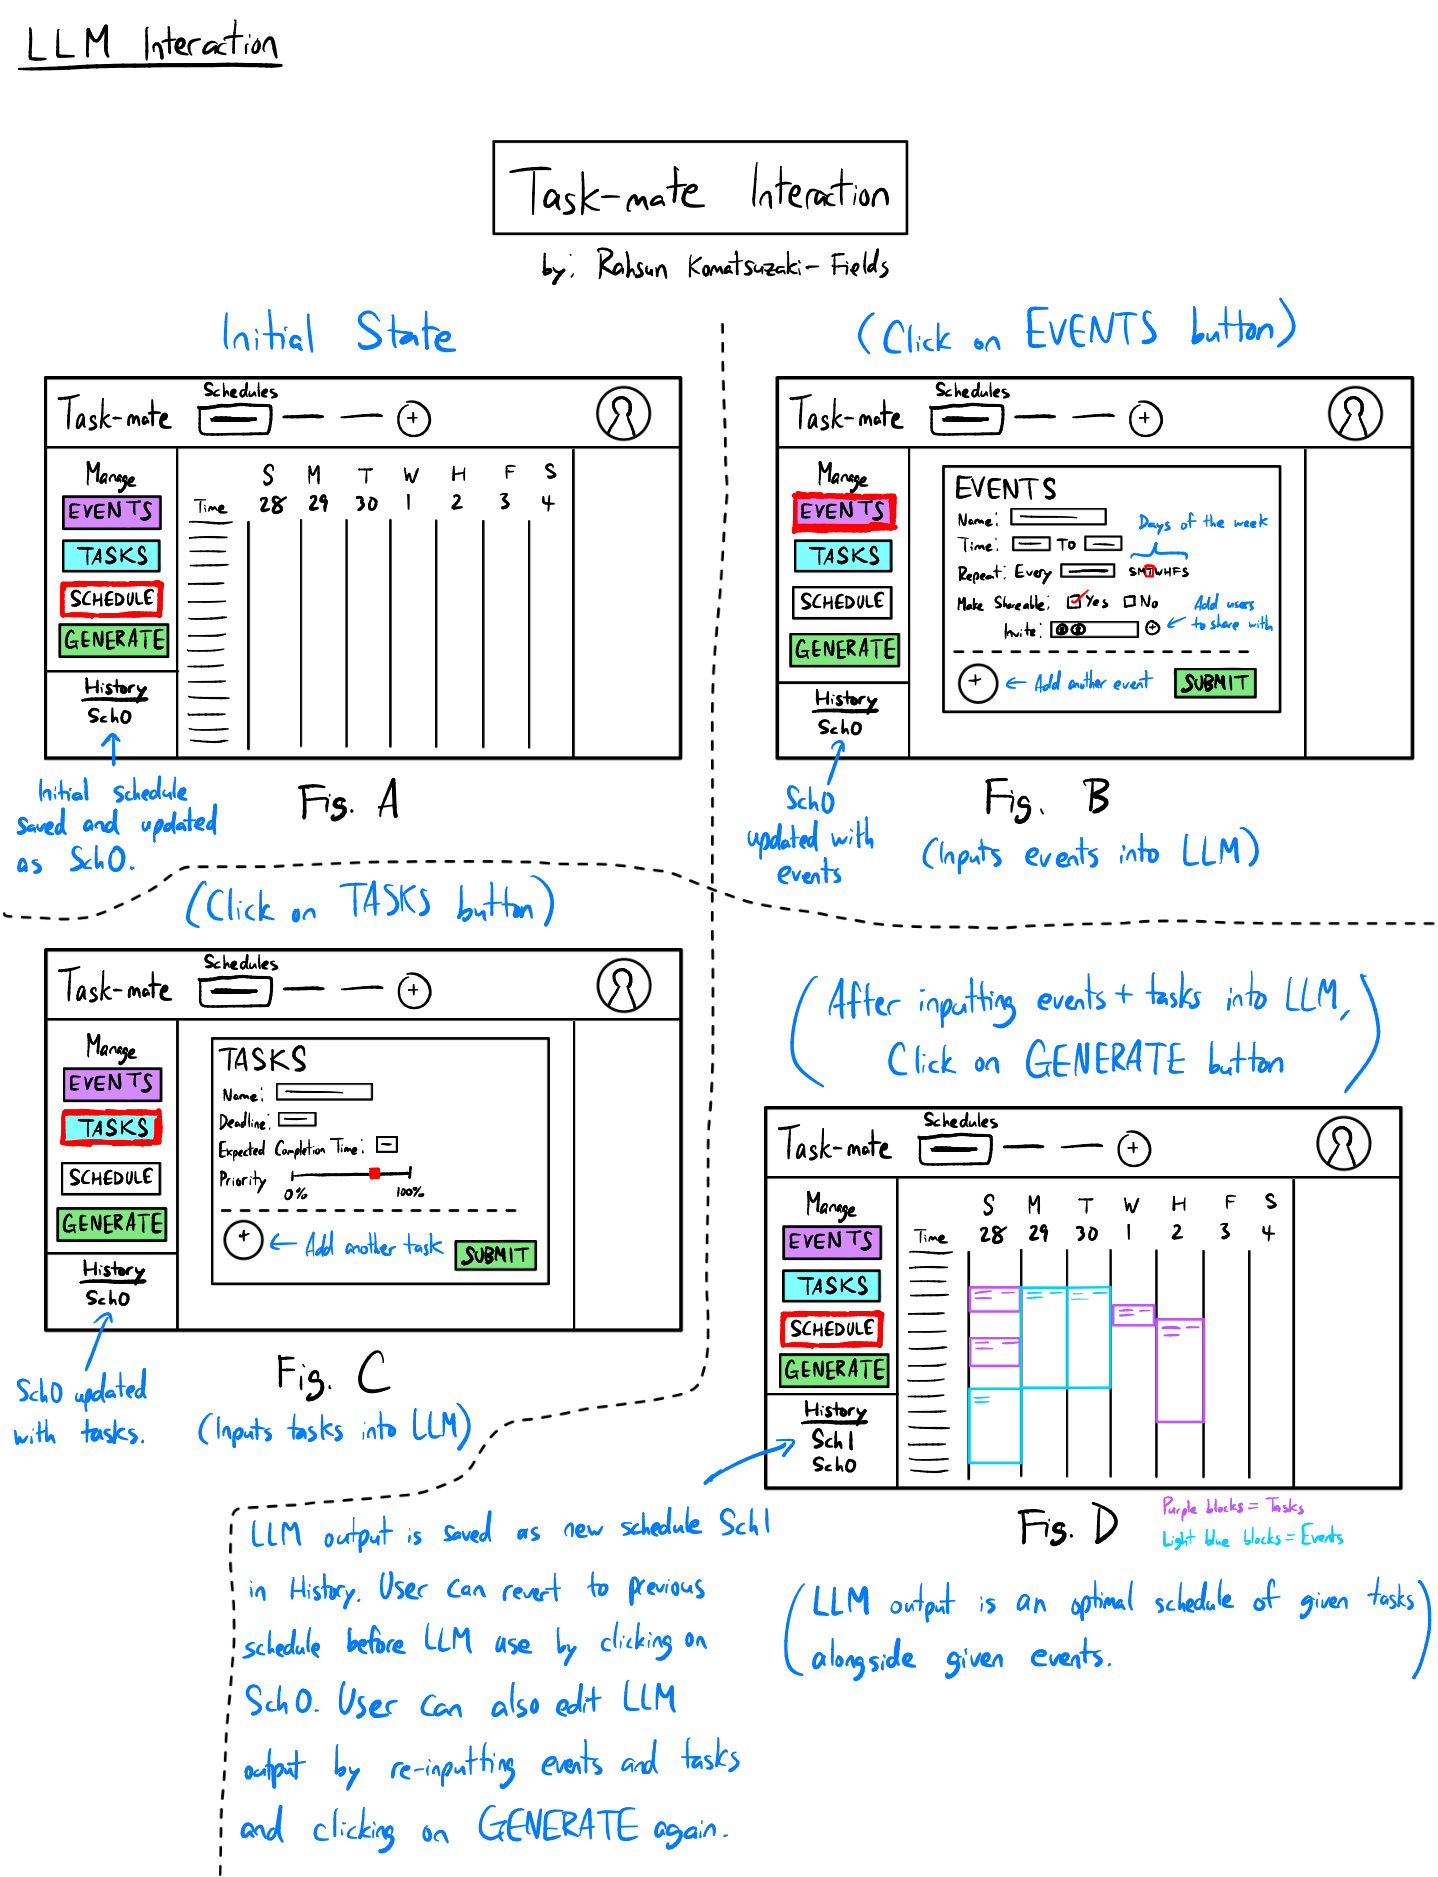
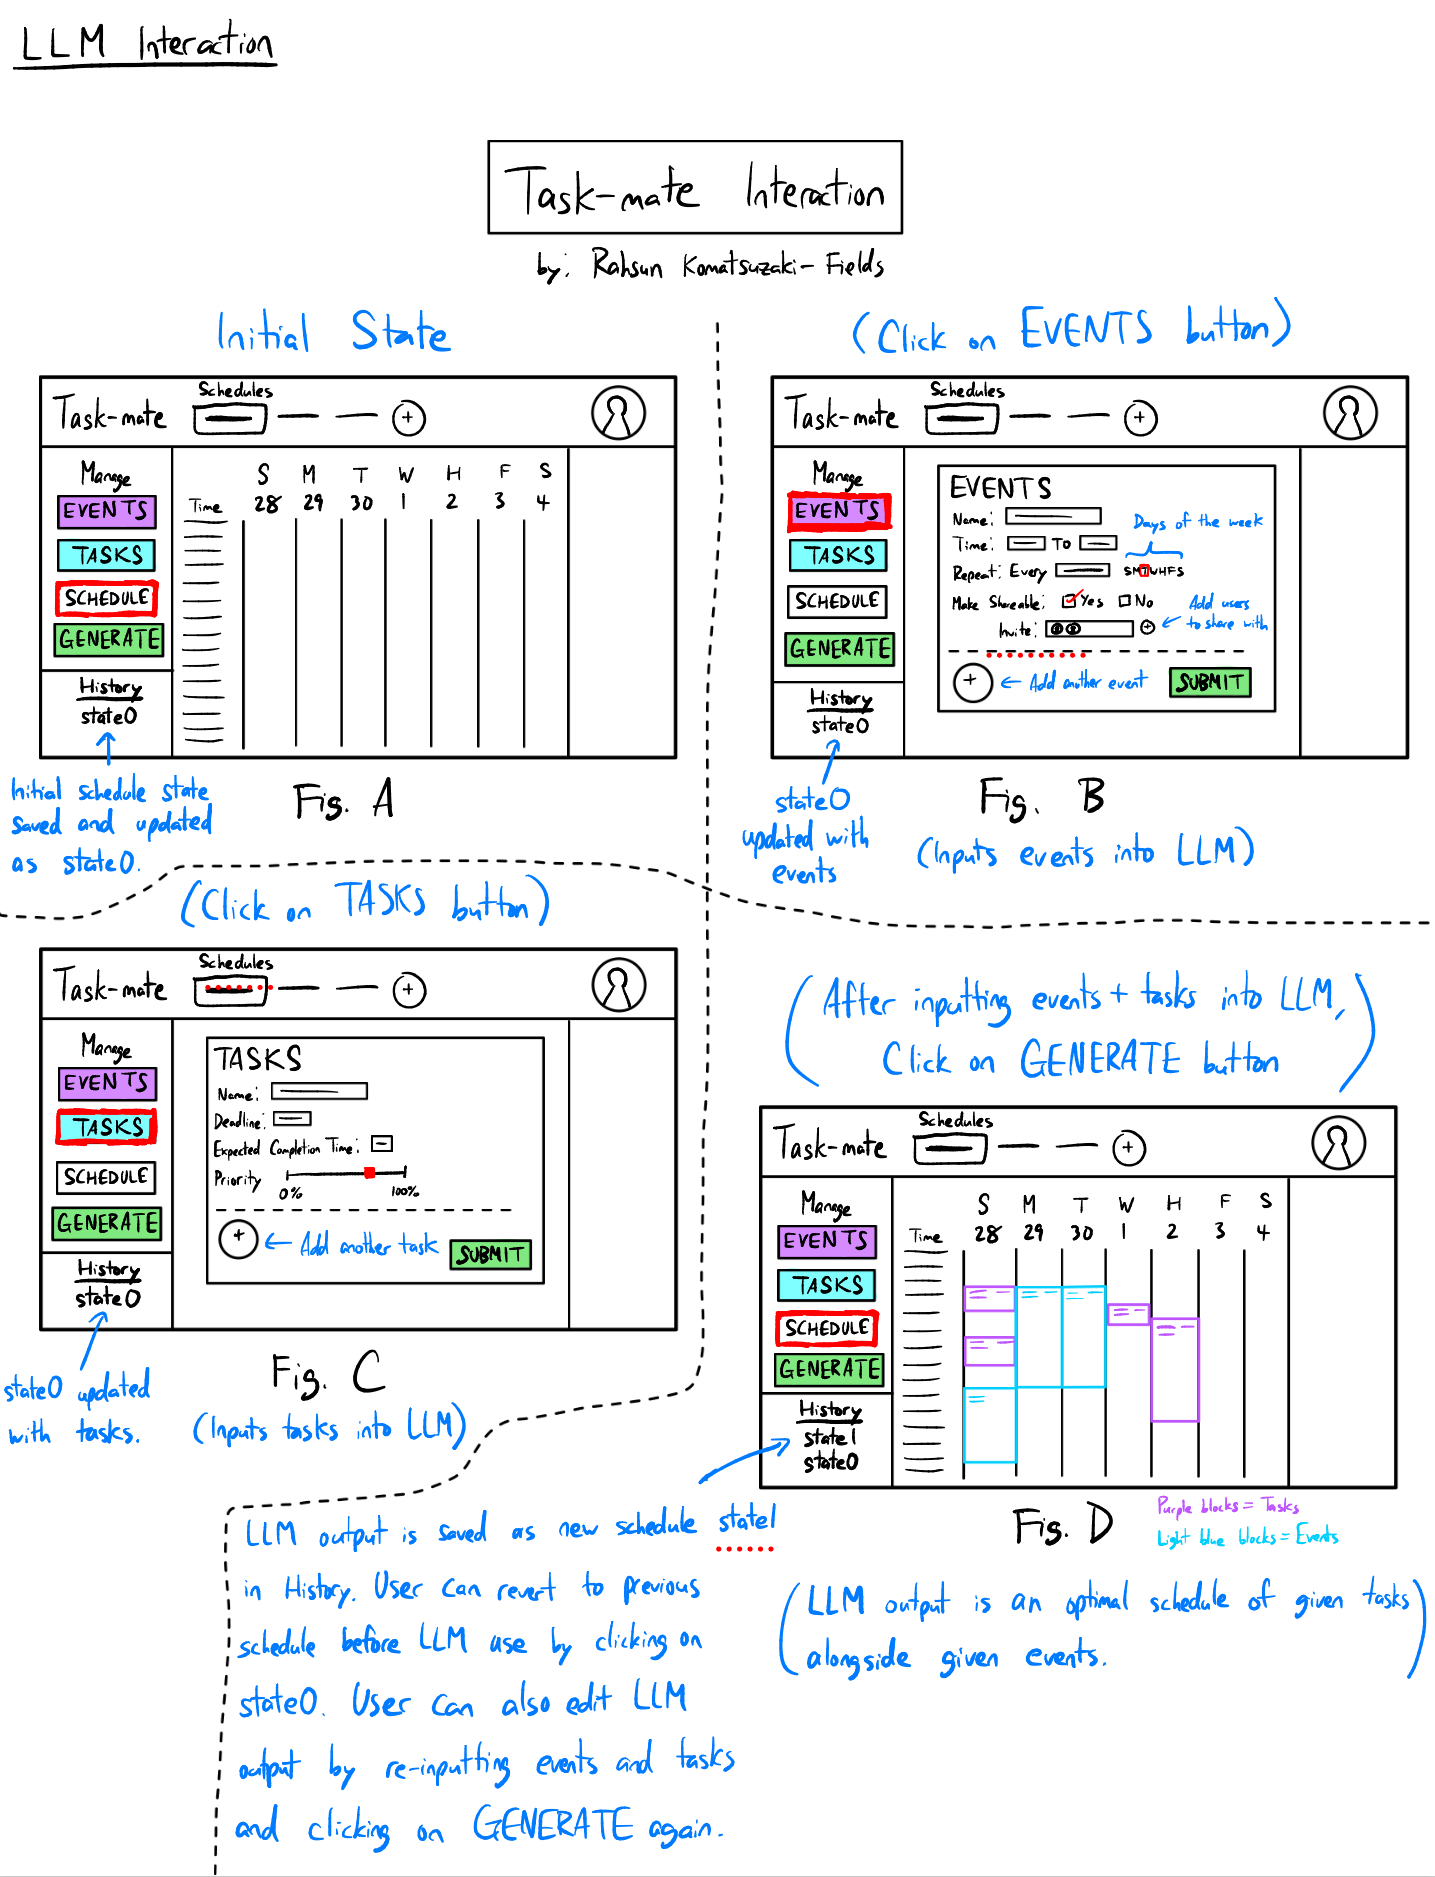
Modified history feature

diff --git a/deliverables/augmentedConceptSpec.md b/deliverables/augmentedConceptSpec.md
@@ -10,6 +10,7 @@
         an owner User
         a set of Events
         a set of Tasks
+        a timestamp Number (static attribute, initially -1)
 
     a set of Events with
         a schedulePointer Schedule
@@ -26,6 +27,10 @@
 
 **actions**
 
+    initializeSchedule(owner: User): (schedule: Schedule)
+        requires: owner exists
+        effects: creates an empty schedule with owner as schedule.owner, with static attribute schedule.timestamp incrementing by 1
+
     addEvent(schedule: Schedule, startTime: Time, endTime: Time, repeatTime: RepeatTime): (event: Event)
         requires: schedule exists
         effects: creates and returns an event to add to the set of events in schedule with the given attributes, with schedulePointer pointing to schedule
@@ -37,6 +42,13 @@
     deleteEvent(schedule: Schedule, event: Event)
         requires: event is in the set of Events of schedule
         effects: deletes event in the set of Events in schedule
+
+    submitEvents(schedule: Schedule): (newShedule: Schedule | e: Error)
+        requires: schedule exists
+        effects:
+            Modifies schedule into newSchedule for schedule.owner such that if possible, all given events start, end, and repeat as specified
+
+            If doing this is not possible, then return an error.
 
     addTask(schedule: Schedule, deadline: Date, expectedCompletionTime: Number, priority: Percent): (task: Task)
         requires: schedule exists
@@ -54,7 +66,7 @@
         requires: schedule and llm exist
 
         effects:
-            Uses llm to create newSchedule for schedule.owner such that if possible, all given events start, end, and repeat as specified, and task scheduling is optimized by its attributes.
+            Uses llm to create newSchedule with newSchedule.timestamp = schedule.timestamp + 1 for schedule.owner such that if possible, all given events start, end, and repeat as specified, and task scheduling is optimized by its attributes.
 
             Generally, tasks with a sooner deadline, higher priority level, higher expectedCompletionTime, and higher completionTime are scheduled first.
 
